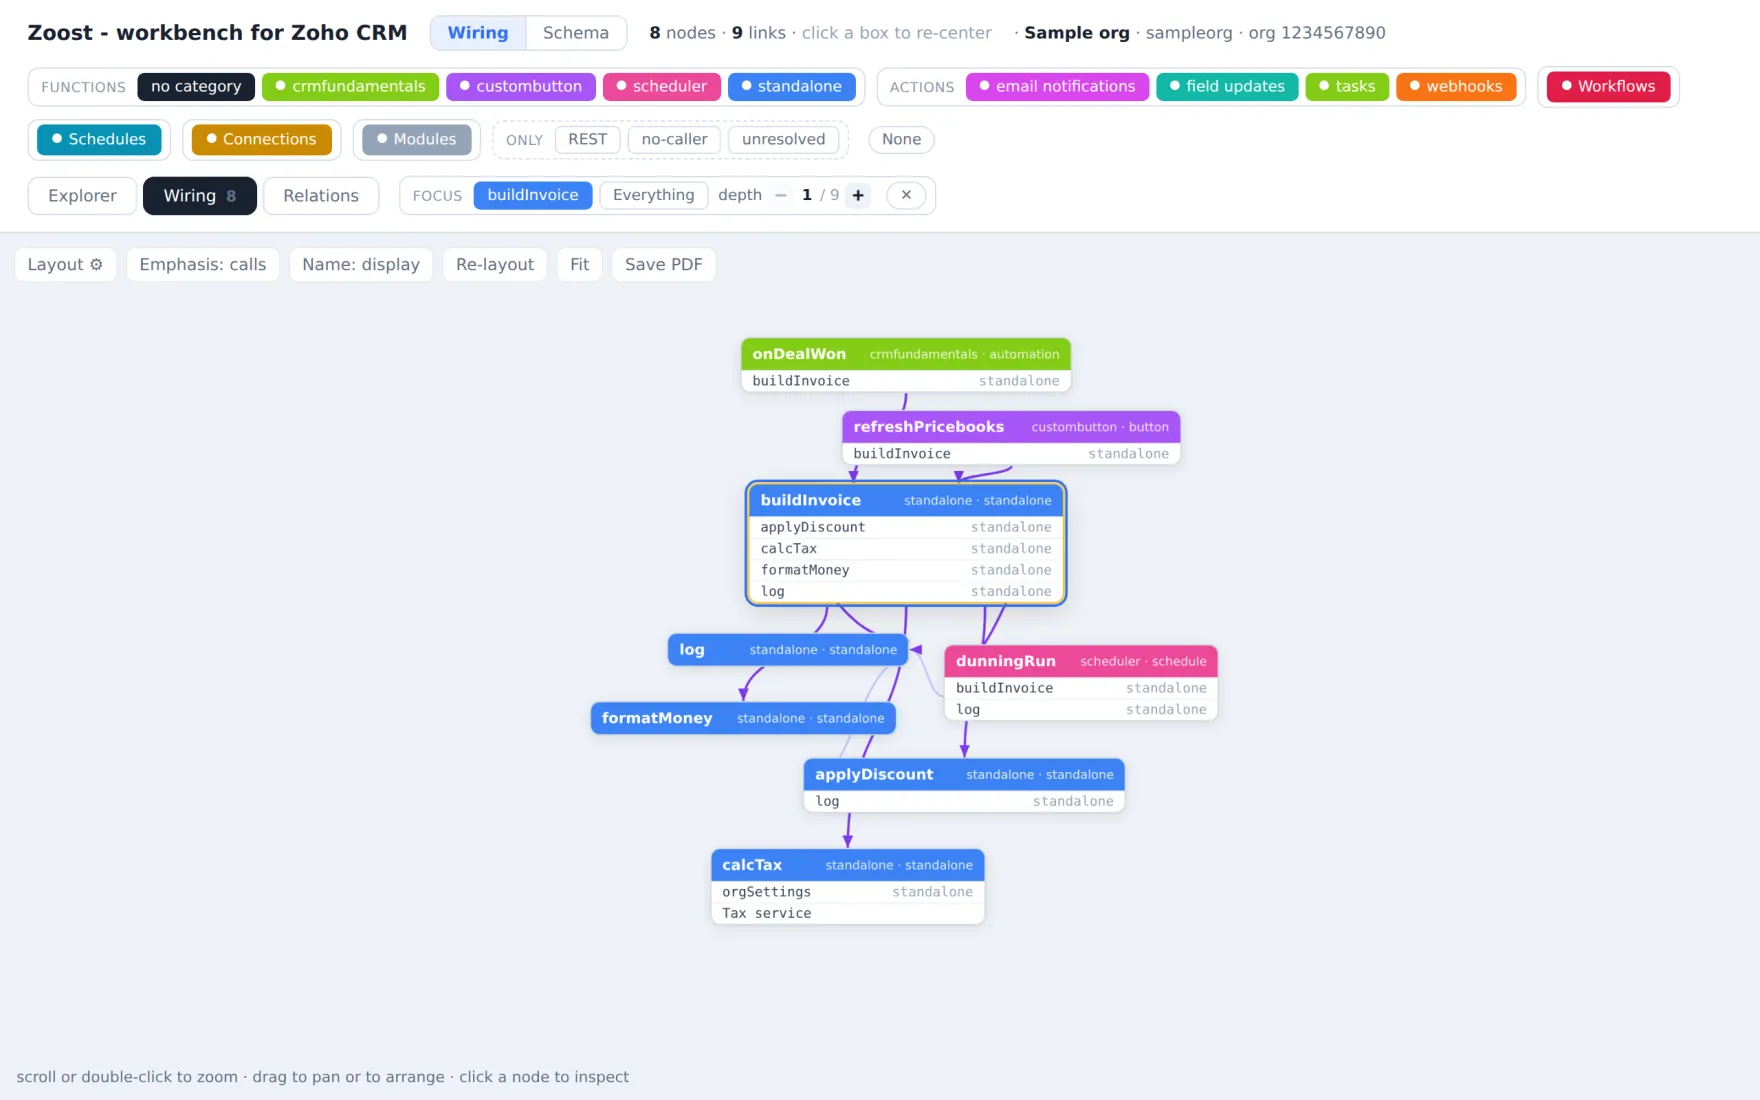
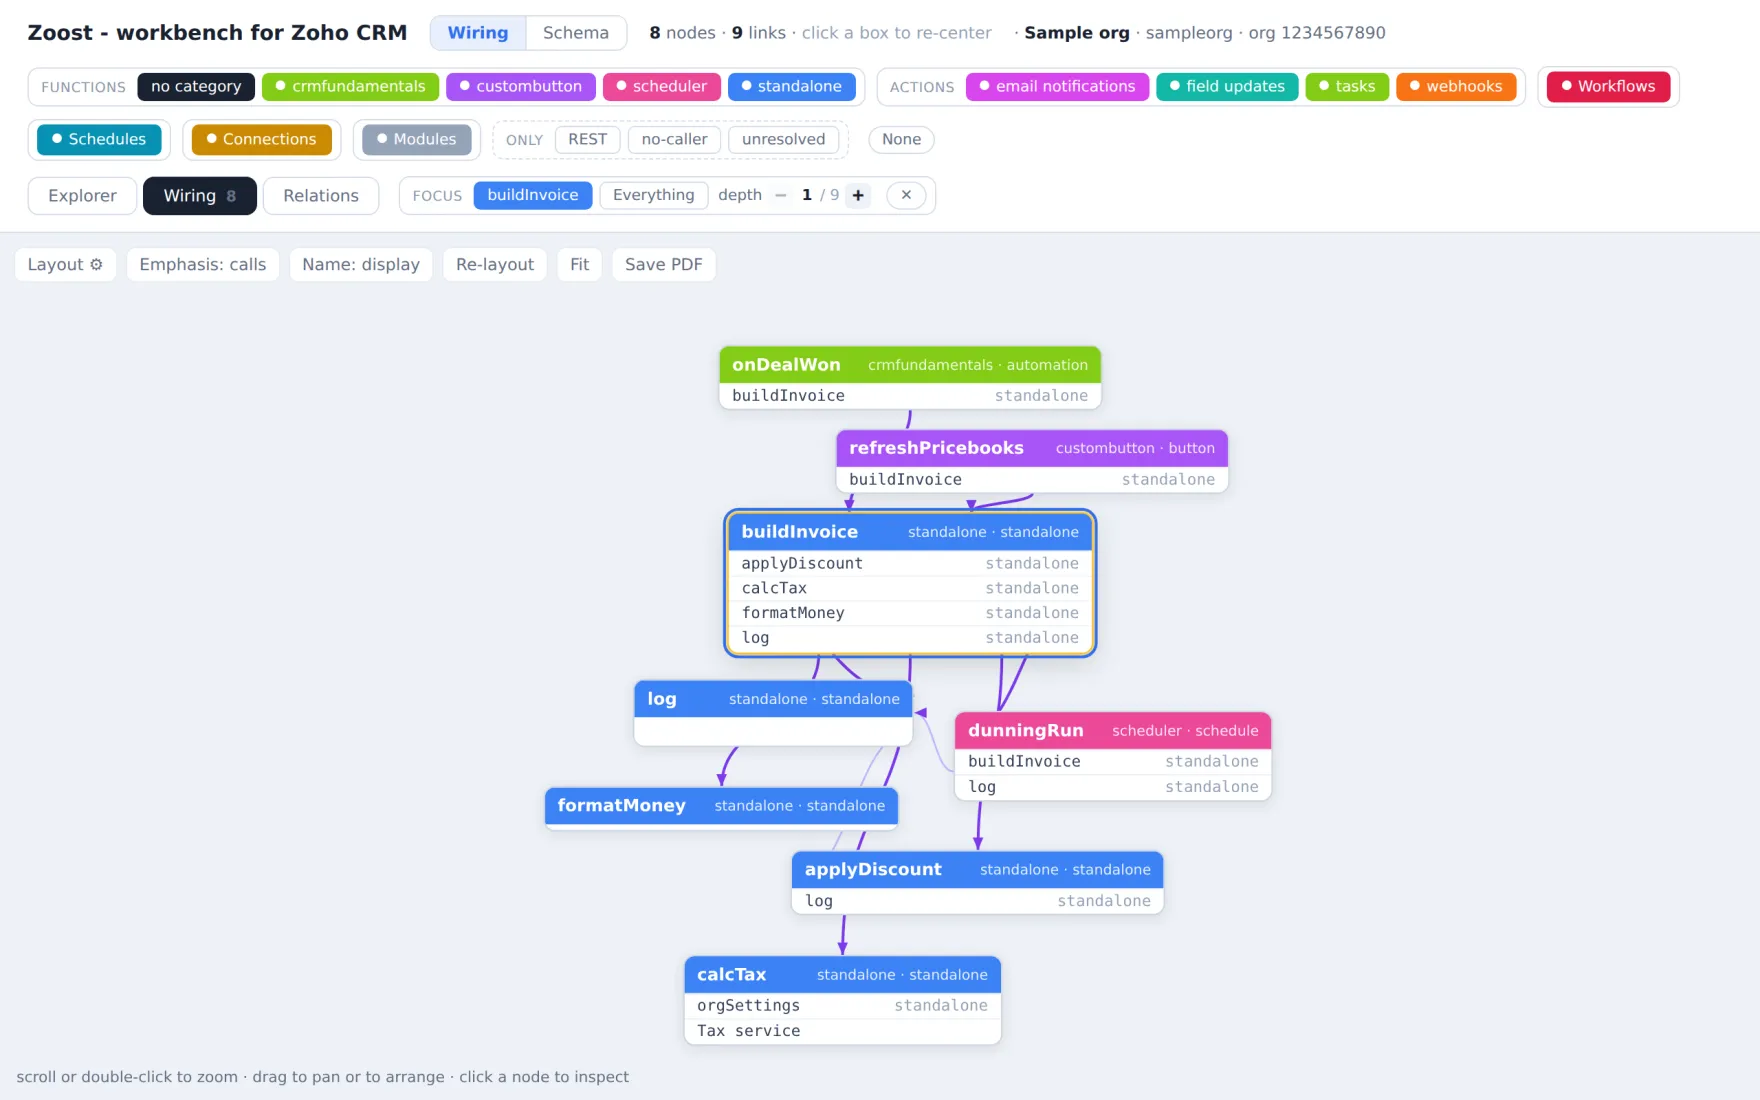
A box grows until its arcs have room to land apart, which also says something true
Reported with a picture: fanning the landing points fixed the top and the bottom, where a
box is wide, and did nothing for the sides - a relation-first box is only as tall as its own
title, so twenty arcs sharing forty pixels are one thick line again.

The reader's argument for growing the box is better than the one I would have given, and it
is why this grows the box instead of pushing the arcs around: a box referenced from twenty
places is more important than one referenced once, so drawing it larger says something true.
The arcs distributing better is then a consequence rather than the point.

One pass, not a fixed point, and that is a decision rather than an omission: growing a box
moves its neighbours, which can change which side an arc arrives on, which would change the
counts. Chasing that to convergence would cost more than it is worth and could oscillate, so
the counts are taken once from the positions as laid out and the collision pass makes room
for whatever grew.

The height had to be carried onto the element as a min-height. The width already came from
the stored position, but a box's height is content-driven, so growing it in erPos alone
would have moved the landing points to where the box was not.

Applied twice by hand because the first pass wrote only the CRM: the analytics copy of the
box style line differs, the assertion fired before the write, and the file was left without
[…]

Changed region(s): [[0.3125, 0.3091, 0.75, 0.9582]]

diff --git a/apps/crm/graphview.js b/apps/crm/graphview.js
@@ -1669,6 +1669,7 @@ function erLayout() {
   // Anything the reader placed goes back where they placed it, before the collision pass runs - so
   // newcomers make room around an arrangement rather than the arrangement being computed away. A box
   // that has left the screen keeps its entry, so switching a category off and on again finds it again.
+  erFitToArcs(edgesAmong(erIds));
   erLastKept = 0;
   if (erArranged) {
     erIds.forEach((id) => {
@@ -1710,6 +1711,41 @@ function erSideOf(A, B) {
  * screen and the fan does not cross itself. One arc on a side still gets the middle, so nothing that
  * was already unambiguous moves.
  */
+// A box grows until its arcs have room to land apart. Reported with a picture: the fan works above and
+// below, where the box is wide, and fails on the sides, where a relation-first box is only as tall as
+// its own title - twenty arcs sharing forty pixels are one thick line again.
+//
+// The reader's argument for it is the better one, and it is why this grows the box rather than pushing
+// the arcs around: a box that is referenced from twenty places *is* more important than one referenced
+// once, so drawing it larger says something true. The arcs distributing better is then a consequence.
+//
+// One pass, not a fixed point. Growing a box moves its neighbours, which can change which side an arc
+// arrives on, which would change the counts - chasing that to convergence would cost more than it is
+// worth and could oscillate. The counts are taken once, from the positions as laid out, and the
+// collision pass then makes room for whatever grew.
+const ARC_GAP = 16;        // pixels between two landing points, a shade above the 14px hit corridor
+function erSideCounts(pairs) {
+  const c = new Map();
+  const bump = (id, side) => {
+    const e = c.get(id) || { t: 0, b: 0, l: 0, r: 0 };
+    e[side]++; c.set(id, e);
+  };
+  pairs.forEach(([a, b]) => {
+    const A = erPos[a], B = erPos[b];
+    if (!A || !B) return;
+    bump(a, erSideOf(A, B)); bump(b, erSideOf(B, A));
+  });
+  return c;
+}
+function erFitToArcs(pairs) {
+  const counts = erSideCounts(pairs);
+  counts.forEach((c, id) => {
+    const p = erPos[id];
+    if (!p) return;
+    p.w = Math.max(p.w, (Math.max(c.t, c.b) + 1) * ARC_GAP);
+    p.h = Math.max(p.h, (Math.max(c.l, c.r) + 1) * ARC_GAP);
+  });
+}
 function erComputeSlots(pairs) {
   const groups = new Map();
   const push = (id, side, key, along) => {
@@ -1787,7 +1823,7 @@ function erRender() {
     div.className = 'erbox ' + (DATA.kind === 'schema' ? (n.namespace === 'custom' ? 'custom' : 'standard') : 'hued') + (erEmph === 'relations' ? ' dim' : '')
       + (inPick === false ? ' faded' : '') + (inPick === true ? ' epick' : '')
       + (id === sel ? ' sel' : '') + (id === curFocus ? ' focus' : '');
-    div.style.cssText = `left:${p.x}px;top:${p.y}px;width:${p.w}px${hue ? `;--kind:${hue}` : ''}`;
+    div.style.cssText = `left:${p.x}px;top:${p.y}px;width:${p.w}px;min-height:${p.h}px${hue ? `;--kind:${hue}` : ''}`;
     const rows = s.rows.slice(0, s.shown).map((fld) => {
       const lk = fld.lookup ? ' lk' : ''; const req = fld.mandatory ? '<span class="pk">*</span>' : '';
       const t = fld.lookup ? ('\u2192 ' + esc(fld.lookup)) : esc(fld.data_type || '');
@@ -2036,6 +2072,7 @@ function erResize() {
     const s = erBoxSize(N[id]);
     p.w = s.w; p.h = s.h;
   });
+  erFitToArcs(edgesAmong(erIds));
   collideBoxes(erIds, erP.margin);
   erRender();
 }

diff --git a/apps/analytics/graphview.js b/apps/analytics/graphview.js
@@ -1364,6 +1364,7 @@ function erLayout() {
   // Anything the reader placed goes back where they placed it, before the collision pass runs - so
   // newcomers make room around an arrangement rather than the arrangement being computed away. A box
   // that has left the screen keeps its entry, so switching a category off and on again finds it again.
+  erFitToArcs(edgesAmong(erIds));
   erLastKept = 0;
   if (erArranged) {
     erIds.forEach((id) => {
@@ -1405,6 +1406,41 @@ function erSideOf(A, B) {
  * screen and the fan does not cross itself. One arc on a side still gets the middle, so nothing that
  * was already unambiguous moves.
  */
+// A box grows until its arcs have room to land apart. Reported with a picture: the fan works above and
+// below, where the box is wide, and fails on the sides, where a relation-first box is only as tall as
+// its own title - twenty arcs sharing forty pixels are one thick line again.
+//
+// The reader's argument for it is the better one, and it is why this grows the box rather than pushing
+// the arcs around: a box that is referenced from twenty places *is* more important than one referenced
+// once, so drawing it larger says something true. The arcs distributing better is then a consequence.
+//
+// One pass, not a fixed point. Growing a box moves its neighbours, which can change which side an arc
+// arrives on, which would change the counts - chasing that to convergence would cost more than it is
+// worth and could oscillate. The counts are taken once, from the positions as laid out, and the
+// collision pass then makes room for whatever grew.
+const ARC_GAP = 16;        // pixels between two landing points, a shade above the 14px hit corridor
+function erSideCounts(pairs) {
+  const c = new Map();
+  const bump = (id, side) => {
+    const e = c.get(id) || { t: 0, b: 0, l: 0, r: 0 };
+    e[side]++; c.set(id, e);
+  };
+  pairs.forEach(([a, b]) => {
+    const A = erPos[a], B = erPos[b];
+    if (!A || !B) return;
+    bump(a, erSideOf(A, B)); bump(b, erSideOf(B, A));
+  });
+  return c;
+}
+function erFitToArcs(pairs) {
+  const counts = erSideCounts(pairs);
+  counts.forEach((c, id) => {
+    const p = erPos[id];
+    if (!p) return;
+    p.w = Math.max(p.w, (Math.max(c.t, c.b) + 1) * ARC_GAP);
+    p.h = Math.max(p.h, (Math.max(c.l, c.r) + 1) * ARC_GAP);
+  });
+}
 function erComputeSlots(pairs) {
   const groups = new Map();
   const push = (id, side, key, along) => {
@@ -1481,7 +1517,7 @@ function erRender() {
     div.className = 'erbox ' + (n.namespace === 'custom' ? 'custom' : 'standard') + (erEmph === 'relations' ? ' dim' : '')
       + (inPick === false ? ' faded' : '') + (inPick === true ? ' epick' : '')
       + (id === sel ? ' sel' : '') + (id === curFocus ? ' focus' : '');
-    div.style.cssText = `left:${p.x}px;top:${p.y}px;width:${p.w}px`;
+    div.style.cssText = `left:${p.x}px;top:${p.y}px;width:${p.w}px;min-height:${p.h}px`;
     const rows = s.rows.slice(0, s.shown).map((fld) => {
       const lk = fld.lookup ? ' lk' : ''; const req = fld.mandatory ? '<span class="pk">*</span>' : '';
       const t = fld.lookup ? ('\u2192 ' + esc(label(N[fld.lookup]) || fld.lookup)) : esc(fld.data_type || '');
@@ -1723,6 +1759,7 @@ function erResize() {
     const s = erBoxSize(N[id]);
     p.w = s.w; p.h = s.h;
   });
+  erFitToArcs(edgesAmong(erIds));
   collideBoxes(erIds, erP.margin);
   erRender();
 }

diff --git a/site/docs-crm.html b/site/docs-crm.html
@@ -376,13 +376,13 @@ git commit -m "baseline"</code></pre>
     The <b>Explorer</b> and a focused <b>Wiring</b> stay fast at any org size; use a focus and a small depth.</p>
 
   <figure class="shot">
-    <img src="/img/crm-graph.webp?v=6dd4760ba6" width="1760" height="1100" loading="lazy" decoding="async"
+    <img src="/img/crm-graph.webp?v=0682b811eb" width="1760" height="1100" loading="lazy" decoding="async"
          alt="The call graph window: functions, workflows, schedules and connections as boxes joined by arrows.">
     <figcaption>Chapter 6: the diagram window. The chips at the top are the filter and the colour key at once, and they steer all three views.</figcaption>
   </figure>
 
   <figure class="shot">
-    <img src="/img/crm-er.webp?v=e671862261" width="1760" height="1100" loading="lazy" decoding="async"
+    <img src="/img/crm-er.webp?v=58b759eb1f" width="1760" height="1100" loading="lazy" decoding="async"
          alt="The ER diagram: modules as boxes listing their fields, joined by their lookups.">
     <figcaption>The other drawing in the same window: modules as tables, lookups as arrows, focusable and printable wall-size.</figcaption>
   </figure>

diff --git a/site/it/docs-crm.html b/site/it/docs-crm.html
@@ -400,13 +400,13 @@ git commit -m "baseline"</code></pre>
     fuoco e una profondità piccola.</p>
 
   <figure class="shot">
-    <img src="/img/crm-graph.webp?v=6dd4760ba6" width="1760" height="1100" loading="lazy" decoding="async"
+    <img src="/img/crm-graph.webp?v=0682b811eb" width="1760" height="1100" loading="lazy" decoding="async"
          alt="La finestra del grafo delle chiamate: funzioni, workflow, schedulazioni e connessioni come riquadri uniti da frecce.">
     <figcaption>Capitolo 6: la finestra del diagramma. I chip in alto sono insieme il filtro e la legenda dei colori, e comandano tutte e tre le viste.</figcaption>
   </figure>
 
   <figure class="shot">
-    <img src="/img/crm-er.webp?v=e671862261" width="1760" height="1100" loading="lazy" decoding="async"
+    <img src="/img/crm-er.webp?v=58b759eb1f" width="1760" height="1100" loading="lazy" decoding="async"
          alt="Il diagramma ER: i moduli come riquadri con i loro campi, uniti dai lookup.">
     <figcaption>L'altro disegno nella stessa finestra: i moduli come tabelle, i lookup come frecce, focalizzabile e stampabile a parete.</figcaption>
   </figure>

diff --git a/site/it/index.html b/site/it/index.html
@@ -246,7 +246,7 @@
       su design, codice e testi. Le decisioni, e la responsabilità di come vengono, restano mie.</p>
   
       <figure class="shot">
-        <img src="/img/analytics-er.webp?v=38879b4cd2" width="1760" height="1100" loading="lazy" decoding="async"
+        <img src="/img/analytics-er.webp?v=2e17db4f05" width="1760" height="1100" loading="lazy" decoding="async"
              alt="Il diagramma ER di un workspace Zoho Analytics: le tabelle come riquadri con le colonne, unite dalle relazioni.">
         <figcaption><b>Zoost Analytics.</b> Lo stesso tipo di strumento un prodotto più in là: il workspace disegnato, ogni join scritto come lo scrive Zoho Analytics.</figcaption>
       </figure>

diff --git a/site/it/crm.html b/site/it/crm.html
@@ -241,7 +241,7 @@
     </div>
   
       <figure class="shot">
-        <img src="/img/crm-graph.webp?v=6dd4760ba6" width="1760" height="1100" loading="lazy" decoding="async"
+        <img src="/img/crm-graph.webp?v=0682b811eb" width="1760" height="1100" loading="lazy" decoding="async"
              alt="Il grafo delle chiamate: riquadri per funzioni, workflow, schedulazioni e connessioni, uniti dalle frecce di chi chiama chi.">
         <figcaption><b>La mappa.</b> A fuoco su una funzione, due passi intorno. Anche workflow, schedulazioni e connessioni sono nodi: vedi cosa <em>fa partire</em> il codice e cosa raggiunge; una connessione che non usa nessuno salta all'occhio.</figcaption>
       </figure>

diff --git a/site/crm.html b/site/crm.html
@@ -233,7 +233,7 @@
     </div>
   
       <figure class="shot">
-        <img src="/img/crm-graph.webp?v=6dd4760ba6" width="1760" height="1100" loading="lazy" decoding="async"
+        <img src="/img/crm-graph.webp?v=0682b811eb" width="1760" height="1100" loading="lazy" decoding="async"
              alt="The call graph: boxes for functions, workflows, schedules and connections, joined by arrows for what calls what.">
         <figcaption><b>The map.</b> Focused on one function, two steps out. Workflows, schedules and connections are nodes too, so you see what <em>starts</em> the code and what it reaches - and a connection nothing uses stands out.</figcaption>
       </figure>

diff --git a/site/index.html b/site/index.html
@@ -236,7 +236,7 @@
       result, are mine.</p>
   
       <figure class="shot">
-        <img src="/img/analytics-er.webp?v=38879b4cd2" width="1760" height="1100" loading="lazy" decoding="async"
+        <img src="/img/analytics-er.webp?v=2e17db4f05" width="1760" height="1100" loading="lazy" decoding="async"
              alt="The ER diagram of a Zoho Analytics workspace: tables as boxes with their columns, joined by their relations.">
         <figcaption><b>Zoost Analytics.</b> The same shape of tool one product over: the workspace drawn, every join written the way Zoho Analytics writes it.</figcaption>
       </figure>

diff --git a/site/it/analytics.html b/site/it/analytics.html
@@ -239,7 +239,7 @@
       </figure>
     
       <figure class="shot">
-        <img src="/img/analytics-er.webp?v=38879b4cd2" width="1760" height="1100" loading="lazy" decoding="async"
+        <img src="/img/analytics-er.webp?v=2e17db4f05" width="1760" height="1100" loading="lazy" decoding="async"
              alt="Il diagramma ER del workspace: le tabelle come riquadri con le loro colonne, unite dalle relazioni.">
         <figcaption><b>Il diagramma ER.</b> Ogni join scritto come lo scrive Zoho Analytics, non riscritto con parole mie - metti a fuoco una tabella e cammina da lì.</figcaption>
       </figure>

diff --git a/site/analytics.html b/site/analytics.html
@@ -231,7 +231,7 @@
       </figure>
     
       <figure class="shot">
-        <img src="/img/analytics-er.webp?v=38879b4cd2" width="1760" height="1100" loading="lazy" decoding="async"
+        <img src="/img/analytics-er.webp?v=2e17db4f05" width="1760" height="1100" loading="lazy" decoding="async"
              alt="The ER diagram of the workspace: tables as boxes with their columns, joined by their relations.">
         <figcaption><b>The ER diagram.</b> Every join written the way Zoho Analytics writes it, not re-rendered in my words - focus one table and walk out from it.</figcaption>
       </figure>

diff --git a/site/it/docs-analytics.html b/site/it/docs-analytics.html
@@ -308,7 +308,7 @@ git init &amp;&amp; git add -A &amp;&amp; git commit -m "initial mirror"</code><
     join, e ogni join si può copiare.</p>
 
   <figure class="shot">
-    <img src="/img/analytics-er.webp?v=38879b4cd2" width="1760" height="1100" loading="lazy" decoding="async"
+    <img src="/img/analytics-er.webp?v=2e17db4f05" width="1760" height="1100" loading="lazy" decoding="async"
          alt="Il diagramma ER del workspace, le tabelle unite dalle loro relazioni.">
     <figcaption>Il diagramma ER: metti a fuoco una tabella e cammina da lì.</figcaption>
   </figure>

diff --git a/site/docs-analytics.html b/site/docs-analytics.html
@@ -286,7 +286,7 @@ git init &amp;&amp; git add -A &amp;&amp; git commit -m "initial mirror"</code><
     and every join copyable.</p>
 
   <figure class="shot">
-    <img src="/img/analytics-er.webp?v=38879b4cd2" width="1760" height="1100" loading="lazy" decoding="async"
+    <img src="/img/analytics-er.webp?v=2e17db4f05" width="1760" height="1100" loading="lazy" decoding="async"
          alt="The ER diagram of the workspace, tables joined by their relations.">
     <figcaption>The ER diagram: focus one table and walk out from it.</figcaption>
   </figure>
